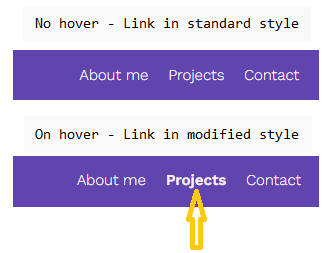
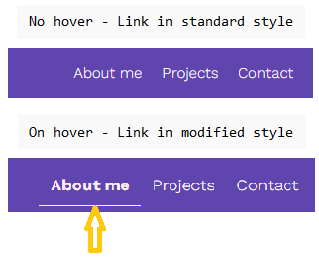
made minor amendments after homework review

diff --git a/assets/css/style.css b/assets/css/style.css
@@ -36,6 +36,12 @@ ul {
   margin: 0;
 }
 
+.showcase-text-container h3,
+.showcase-text-container p,
+.intro h3 {
+  padding: 0.5rem 0 0.5rem 0;
+}
+
 button {
   border-radius: 4px;
   border: 2px solid var(--secondary-variant);
@@ -130,6 +136,7 @@ button {
 .navlink-text:hover {
   color: var(--link-hover-light);
   font-weight: 600;
+  border-bottom: 2px solid var(--link-hover-light);
 }
 
 /* Main part - About me section*/
@@ -147,6 +154,7 @@ button {
   margin: 0px 5px 0px 5px;
   padding: 5px;
 }
+
 .avatar {
   height: 150px;
   width: 150px;
@@ -182,6 +190,10 @@ h4 {
 .link-text {
   color: var(--primary-variant);
 }
+.showcase-container,
+.project-card {
+  box-shadow: 0 4px 8px 0 rgba(0, 0, 0, 0.2), 0 6px 20px 0 rgba(0, 0, 0, 0.19);
+}
 
 /* This is styling for the Project title and filter buttons */
 .project-menu {
@@ -197,7 +209,7 @@ h4 {
 .showcase-container {
   height: 800px;
   max-width: 1600px;
-  border: 2px solid var(--primary-variant);
+  border: 1px solid var(--card-text-box);
   position: relative;
 }
 .showcase-img {
@@ -217,6 +229,7 @@ h4 {
   opacity: 0.75;
   overflow: hidden;
 }
+
 .showcase-container:hover .showcase-img {
   opacity: 1;
 }
@@ -236,7 +249,7 @@ h4 {
 .project-card {
   width: 500px;
   height: 500px;
-  border: 1px solid var(--primary-variant);
+  border: 1px solid var(--card-text-box);
   margin: 5px;
   display: flex;
   flex-direction: column;

diff --git a/index.html b/index.html
@@ -137,7 +137,9 @@
               <h3>Construction company website</h3>
               <p>
                 Working with an independent builder to develop a simple but
-                effective website and promote his services
+                effective website and promote his services. The website offers
+                photos and description of previous renovation projects and a
+                contact form for potential new customers.
               </p>
               <div class="project-repo-link">
                 <a class="link-text" href="#" target="_blank"
